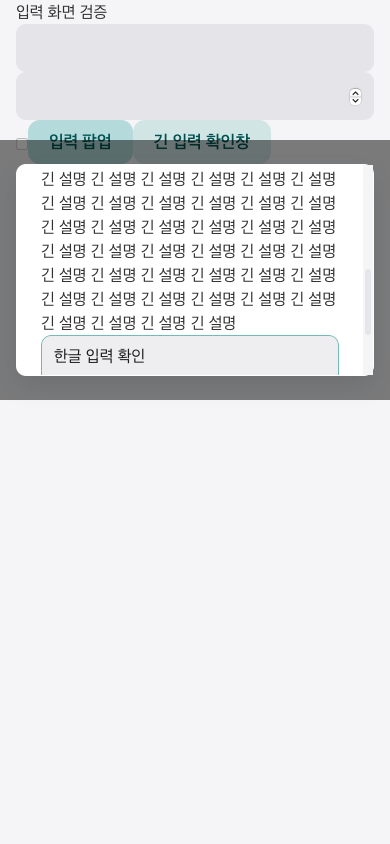
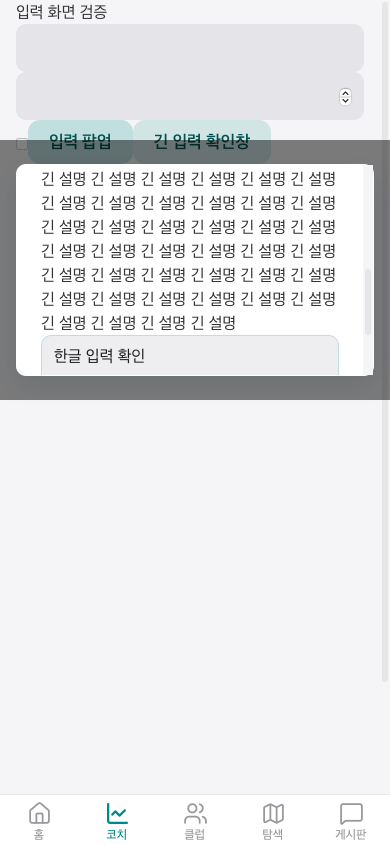
fix: reserve mobile navigation space without keyboard state heuristics

diff --git a/e2e/tests/mobile-keyboard.spec.ts b/e2e/tests/mobile-keyboard.spec.ts
@@ -14,13 +14,13 @@ async function panKeyboard(page: Page, height: number, top: number) {
   }, { height, top });
 }
 
-test('resize keyboard hides navigation and frees the fixed save bar only for editable controls', async ({ page }) => {
+test('resize keyboard reserves navigation space and frees the fixed save bar for editable controls', async ({ page }, info) => {
   await page.goto('/e2e/fixtures/mobile-keyboard.html');
   const nav = page.getByTestId('X1-1');
   await expect(nav).toBeVisible();
   await page.getByRole('textbox', { name: '일반 입력' }).focus();
   await page.setViewportSize({ width: 390, height: 300 });
-  await expect(nav).toBeHidden();
+  await expect(nav).toBeInViewport();
   const input = page.getByRole('spinbutton', { name: '숫자 입력' });
   await input.fill('42');
   await input.evaluate(node => node.scrollIntoView({ block: 'end' }));
@@ -28,6 +28,7 @@ test('resize keyboard hides navigation and frees the fixed save bar only for edi
     const r = node.getBoundingClientRect();
     return document.elementFromPoint(r.x + r.width / 2, r.y + r.height / 2) === node;
   })).toBe(true);
+  await page.screenshot({ path: info.outputPath('navigation-input.png') });
   await page.setViewportSize({ width: 390, height: 844 });
   await page.getByRole('checkbox').focus();
   await expect(nav).toBeVisible();
@@ -52,7 +53,7 @@ test('a save tap completes before input blur can relocate the action bar', async
   await expect(page.locator('[data-editing-action]')).toHaveCount(0);
   await page.setViewportSize({ width: 390, height: 844 });
   await page.getByRole('checkbox').focus();
-  await expect(page.getByTestId('X1-1')).toBeVisible();
+  await expect(page.getByTestId('X1-1')).toBeInViewport();
   await save.tap();
   await expect(page.getByRole('status', { name: '저장 횟수' })).toHaveText('3');
 });
@@ -62,29 +63,32 @@ test('dismissing the keyboard restores navigation while input focus is retained'
   const input = page.getByRole('textbox', { name: '일반 입력' });
   await input.fill('입력 유지');
   await page.setViewportSize({ width: 390, height: 300 });
-  await expect(page.getByTestId('X1-1')).toBeHidden();
+  await expect(page.getByTestId('X1-1')).toBeInViewport();
   await page.setViewportSize({ width: 390, height: 844 });
   await expect(input).toBeFocused();
   await expect(input).toHaveValue('입력 유지');
-  await expect(page.getByTestId('X1-1')).toBeVisible();
+  await expect(page.getByTestId('X1-1')).toBeInViewport();
 });
 
 test('rotation with an open keyboard preserves navigation recovery and reopening', async ({ page }) => {
   await page.goto('/e2e/fixtures/mobile-keyboard.html');
   const input = page.getByRole('textbox', { name: '일반 입력' });
+  await page.setViewportSize({ width: 430, height: 932 });
   await input.fill('회전 후에도 입력 유지');
-  await page.setViewportSize({ width: 390, height: 300 });
-  await expect(page.getByTestId('X1-1')).toBeHidden();
-  await page.setViewportSize({ width: 844, height: 160 });
-  await expect(page.getByTestId('X1-1')).toBeHidden();
-  await page.setViewportSize({ width: 844, height: 350 });
+  await page.setViewportSize({ width: 430, height: 300 });
+  await expect(page.getByTestId('X1-1')).toBeInViewport();
+  await page.setViewportSize({ width: 932, height: 180 });
+  await expect(page.getByTestId('X1-1')).toBeInViewport();
+  await page.setViewportSize({ width: 932, height: 300 });
   await expect(input).toBeFocused();
-  await expect(page.getByTestId('X1-1')).toBeVisible();
-  await page.setViewportSize({ width: 844, height: 160 });
-  await expect(page.getByTestId('X1-1')).toBeHidden();
-  await page.setViewportSize({ width: 390, height: 844 });
+  await expect(input).toBeInViewport();
+  await expect(page.getByTestId('X1-1')).toBeInViewport();
+  await page.setViewportSize({ width: 932, height: 180 });
+  await expect(page.getByTestId('X1-1')).toBeInViewport();
+  await page.setViewportSize({ width: 430, height: 932 });
   await expect(input).toBeFocused();
-  await expect(page.getByTestId('X1-1')).toBeVisible();
+  await expect(input).toBeInViewport();
+  await expect(page.getByTestId('X1-1')).toBeInViewport();
 });
 
 for (const name of [/2030/, /오전 8:00/]) {
@@ -113,7 +117,7 @@ for (const kind of ['run', 'swim']) {
       const r = node.getBoundingClientRect();
       return document.elementFromPoint(r.x + r.width / 2, r.y + r.height / 2) === node;
     })).toBe(true);
-    await expect(page.getByTestId('X1-1')).toBeHidden();
+    await expect(page.getByTestId('X1-1')).toBeInViewport();
   });
 }
 
@@ -137,7 +141,7 @@ for (const prompt of [false, true]) {
     await panKeyboard(page, 844, 0);
     await page.keyboard.press('Escape');
     await expect(dialog).toHaveCount(0);
-    await expect(page.getByTestId('X1-1')).toBeVisible();
+    await expect(page.getByTestId('X1-1')).toBeInViewport();
   });
 }
 

diff --git a/e2e/fixtures/mobile-keyboard.tsx b/e2e/fixtures/mobile-keyboard.tsx
@@ -1,4 +1,3 @@
-import { useMobileKeyboard } from "../../src/hooks/useMobileKeyboard";
 import { preserveActionPosition } from "../../src/utils/preserveActionPosition";
 import { useState } from 'react';
 import { createRoot } from 'react-dom/client';
@@ -24,7 +23,6 @@ import '../../src/theme/generated.css';
 import '../../src/theme/components/components.css';
 await i18next.init({ lng: 'ko', resources: { ko: { training, common, board } }, interpolation: { escapeValue: false } });
 function Fixture() {
-  useMobileKeyboard();
   const [saved, setSaved] = useState(0);
   const [open, setOpen] = useState(false);
   const [date, setDate] = useState('2030-11-20');
@@ -34,7 +32,7 @@ function Fixture() {
   const params = new URLSearchParams(location.search);
   const kind = params.get('kind');
   const Stepper = () => <h1>목표 설정</h1>;
-  return <main className="site-shell site-shell--padded" style={{ paddingBottom: 'var(--space-8)' }}>
+  return <div style={{ height: '100dvh', display: 'flex', flexDirection: 'column' }}><main className="site-shell site-shell--padded" style={{ flex: 1, minHeight: 0, overflowY: 'auto' }}>
     {kind === 'run' ? <RunGoalSetupWizard Stepper={Stepper} /> : kind === 'swim' ? <SwimGoalSetupWizard Stepper={Stepper} /> : <>
       <h1>입력 화면 검증</h1><Input aria-label="일반 입력" /><Input type="number" aria-label="숫자 입력" /><input type="checkbox" aria-label="체크박스" />
       <Button onClick={() => setOpen(true)}>입력 팝업</Button>
@@ -46,7 +44,6 @@ function Fixture() {
         <p>{'긴 설명 '.repeat(100)}</p><Textarea aria-label="팝업 입력" /><Button onClick={() => setOpen(false)}>저장하고 닫기</Button>
       </Modal>
     </>}
-    <MobileTabBar active="coach" />
-  </main>;
+  </main><MobileTabBar active="coach" /></div>;
 }
 createRoot(document.getElementById('root')!).render(<ThemeProvider><OriderThemeProvider><FirebaseServicesProvider services={services as unknown as FirebaseServices}><I18nextProvider i18n={i18next}><MemoryRouter><DialogProvider><Fixture /></DialogProvider></MemoryRouter></I18nextProvider></FirebaseServicesProvider></OriderThemeProvider></ThemeProvider>);

diff --git a/src/styles/mobileKeyboard.css b/src/styles/mobileKeyboard.css
@@ -1,18 +1,19 @@
 /* Action bars remain reachable in document flow while the keyboard owns space.
-   A resting-height comparison also covers Android resize mode. */
+   Navigation reserves a separate flex row instead of covering the scroll area. */
 .mobile-form-actions { position: sticky; bottom: 0; }
 .mobile-form-actions--fixed { position: fixed; }
 @media (max-width: 63.999rem) {
-  /* The web tab bar has its own fixed layer; embedded screens have no tab bar. */
+  /* The web tab bar has its own layout row; embedded screens have no tab bar. */
   :root:has(.mobile-tab-bar) .mobile-form-actions--fixed {
     bottom: calc(var(--space-8) + var(--dim-divider-thickness) + env(safe-area-inset-bottom, 0px));
   }
 }
 @media (max-width: 63.999rem), (pointer: coarse) {
-  :root .mobile-form-actions[data-editing-action] { position: static; }
-  :root[data-mobile-keyboard-open] {
+  :root .mobile-form-actions[data-editing-action],
+  :root .coach-question-launcher.fixed[data-editing-action] { position: static; }
+  :root:has(:is(input:not([type="checkbox"], [type="radio"], [type="range"], [type="file"], [type="color"], [type="button"], [type="submit"], [type="reset"]), textarea, select, [contenteditable="true"], [contenteditable=""]):focus) {
     .mobile-form-actions { position: static; }
-    .mobile-tab-bar, .coach-question-launcher.fixed { visibility: hidden; pointer-events: none; }
+    .coach-question-launcher.fixed { position: static; }
   }
 }
 

diff --git a/src/pages/coach/CoachQuestionEntry.tsx b/src/pages/coach/CoachQuestionEntry.tsx
@@ -1,3 +1,4 @@
+import { preserveActionPosition } from "../../utils/preserveActionPosition";
 import { CoachQuestionLauncher } from "../../features/coach/CoachQuestionLauncher";
 import { useAuth } from "../../contexts/AuthContext";
 import { useTranslation } from "react-i18next";
@@ -7,7 +8,7 @@ import type { FitnessModel } from "../../hooks/useFitnessModel";
 export function CoachQuestionEntry({ model, page }: { model: FitnessModel; page: "condition" | "today" | "analysis" }) {
   const { user, signIn } = useAuth();
   const { t } = useTranslation("training");
-  return <div data-testid="K6-F" className={page === "condition" ? "site-shell coach-question-launcher coach-question-launcher--condition" : "coach-question-launcher fixed bottom-20 right-4"}>
+  return <div onPointerDown={preserveActionPosition} data-testid="K6-F" className={page === "condition" ? "site-shell coach-question-launcher coach-question-launcher--condition" : "coach-question-launcher fixed bottom-20 right-4"}>
     <div data-testid={page === "today" ? "K2-5" : undefined}><div data-testid={page === "today" ? "K2-5-2" : undefined}>
       <CoachQuestionLauncher user={user} discipline={model.discipline === "tri" ? "bike" : model.discipline} onSignIn={() => void signIn()} triggerBlock={false} triggerLabel={t("goalHub.askCoach")} />
     </div></div>

diff --git a/e2e/fixtures/club-meeting-entry.tsx b/e2e/fixtures/club-meeting-entry.tsx
@@ -1,4 +1,3 @@
-import { useMobileKeyboard } from "../../src/hooks/useMobileKeyboard";
 import { createRoot } from "react-dom/client";
 import { MemoryRouter, Route, Routes, useLocation } from "react-router-dom";
 import i18next from "i18next";
@@ -24,7 +23,7 @@ import "../../src/theme/components/components.css";
 import "../../src/pages/group/ClubSurface.css";
 const lang = english ? "en" : "ko";
 await i18next.init({ lng: lang, resources: { ko: { group: ko, event: koEvent, common: koCommon, clubMeeting: koMeeting }, en: { group: en, event: enEvent, common: enCommon, clubMeeting: enMeeting } }, interpolation: { escapeValue: false } });
-function Position() { useMobileKeyboard(); const l = useLocation(); return <output data-testid="flow-location" hidden>{l.pathname}</output>; }
+function Position() { const l = useLocation(); return <output data-testid="flow-location" hidden>{l.pathname}</output>; }
 function Clubs() { return <><h1>{english ? "My clubs" : "내 클럽"}</h1><GroupCard group={group} showMyRole /></>; }
 createRoot(document.getElementById("root")!).render(
   <ThemeProvider><OriderThemeProvider><FirebaseServicesProvider services={services as unknown as FirebaseServices}>

diff --git a/src/components/Layout.tsx b/src/components/Layout.tsx
@@ -180,7 +180,7 @@ export default function Layout() {
       />
 
       {/* 홈은 대시보드 셸, 다른 페이지는 콘텐츠 셸. 기본 허브 화면은 탭을 오가는 동안 살려 둔다. */}
-      <main ref={mainRef} tabIndex={-1} className="site-main flex-1 overflow-x-hidden overflow-y-auto relative z-0 pb-[calc(54px+env(safe-area-inset-bottom,0px))] lg:pb-0">
+      <main ref={mainRef} tabIndex={-1} className="site-main flex-1 overflow-x-hidden overflow-y-auto relative z-0">
         <RetainedHubPages path={path} hub={activeNav} owner={user?.uid ?? null}>
           {path === "/" ? (
             <div className="site-shell md:px-6 md:py-6" data-page-shell="home">

diff --git a/src/utils/preserveActionPosition.ts b/src/utils/preserveActionPosition.ts
@@ -8,7 +8,6 @@ export function preserveActionPosition(event: PointerEvent<HTMLElement>) {
   const input = document.activeElement;
   if (!(input instanceof HTMLElement) || !input.matches(KEYBOARD_INPUT_SELECTOR)) return;
   if (!(event.target instanceof Element) || !event.target.closest("button, a[href]")) return;
-  if (!document.documentElement.hasAttribute("data-mobile-keyboard-open")) return;
   const bar = event.currentTarget;
   bar.dataset.editingAction = "true";
   let timeout: ReturnType<typeof setTimeout> | undefined;

diff --git a/src/AppRoot.tsx b/src/AppRoot.tsx
@@ -1,4 +1,3 @@
-import { useMobileKeyboard } from "./hooks/useMobileKeyboard";
 import { useLocation } from "react-router-dom";
 
 import App, { isEmbeddedRoutePath } from "./App";
@@ -12,7 +11,6 @@ import { usesLiveDarkAppearance } from "./theme/appearancePolicy";
 
 /** Keeps the normal web provider tree completely absent on embedded routes. */
 export default function AppRoot() {
-  useMobileKeyboard();
   const location = useLocation();
   const embedded = isEmbeddedRoutePath(location.pathname);
 

diff --git a/src/components/mobile/MobileTabBar.tsx b/src/components/mobile/MobileTabBar.tsx
@@ -21,7 +21,7 @@ export default function MobileTabBar({
 
   return (
     <div
-      className="mobile-tab-bar lg:hidden fixed bottom-0 left-0 right-0 z-50"
+      className="mobile-tab-bar lg:hidden shrink-0 z-50"
       style={{
         background: "var(--bg-1)",
         borderTop: "1px solid var(--line-soft)",
